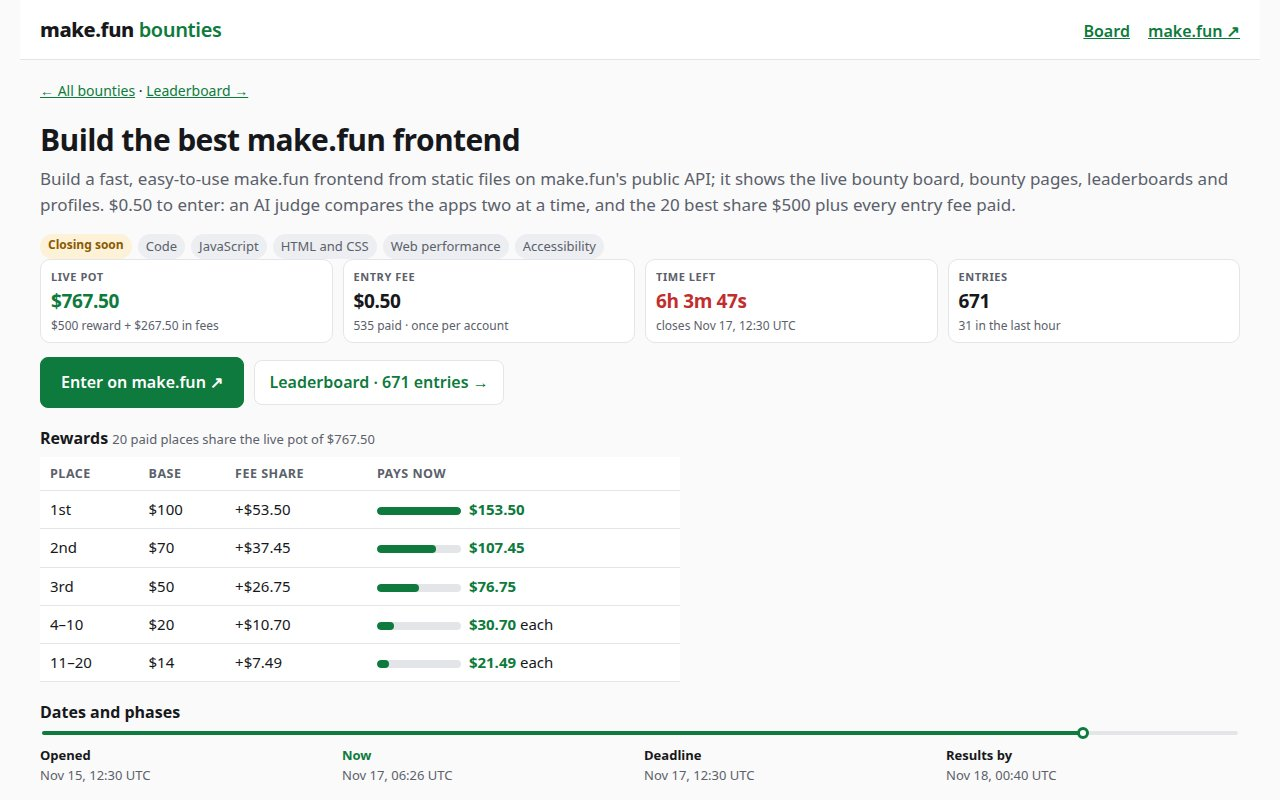
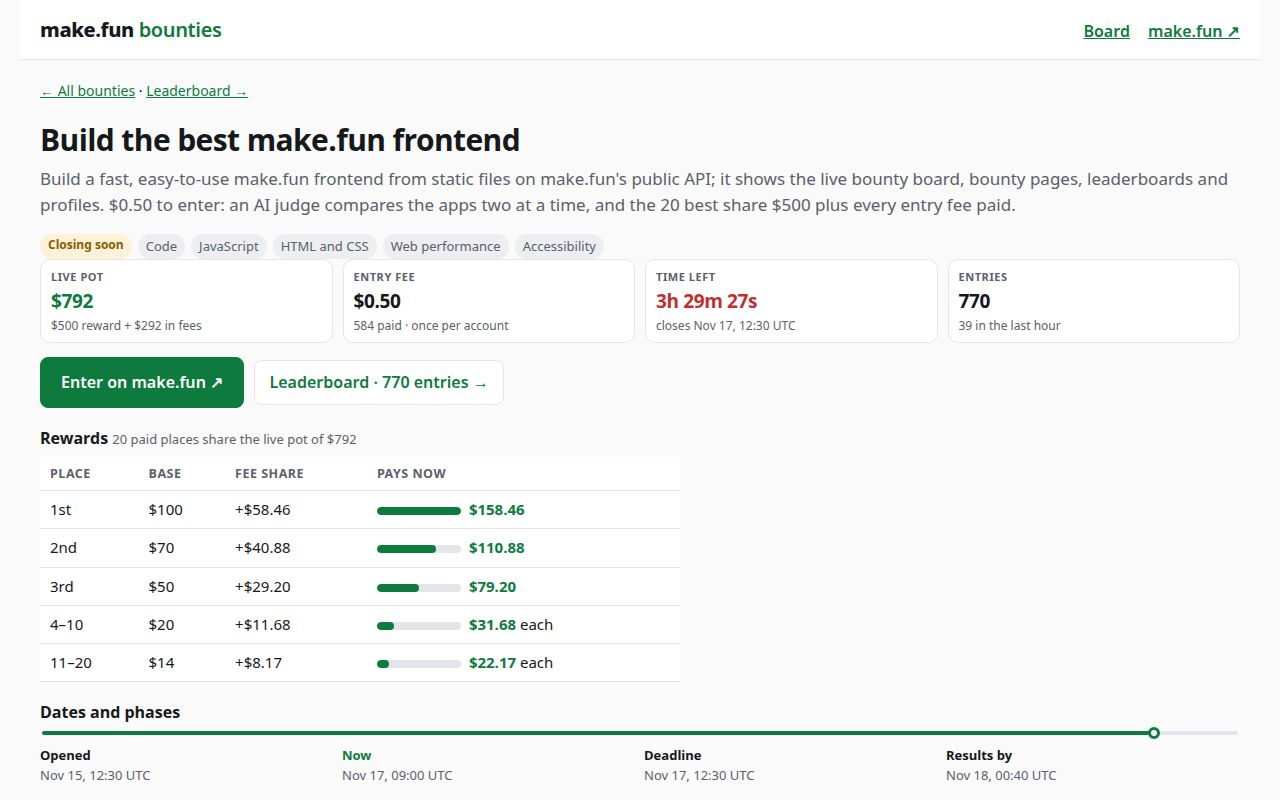
Featherlight rebuild 3: rewrite all surfaces in a recorded session
Full rewrite of the vanilla-JS make.fun frontend (board, bounty,
leaderboard, profile) from the live public API. Removes the
unreferenced favicon.ico; first load 6 files, 37874 bytes raw,
12153 bytes gzip-9; whole app 7 files, 38122 bytes. Screenshots
retaken from the running app on live data.

diff --git a/app/views.js b/app/views.js
@@ -1,1 +1,144 @@
-import{ago,bytes,date,dtime,esc,isTakingEntries,md,money,num,pct,placeLabel,shortDate,timeLeft,timeLeftPrecise}from"./format.js";const pot=e=>money(e.potUsd??e.rewardAmount),fee=e=>e.entryFeeUsd&&Number(e.entryFeeUsd)>0?`${money(e.entryFeeUsd)} fee`:"Free entry";function statusBadge(e){if(!isTakingEntries(e))return'<span class="badge ended">Ended</span>';return new Date(e.deadline).getTime()-Date.now()<864e5?'<span class="badge soon">Closing soon</span>':'<span class="badge open">Open</span>'}function elapsedFrac(e){const t=new Date(e.publishedAt).getTime(),n=new Date(e.deadline).getTime();return!Number.isFinite(t)||!Number.isFinite(n)||n<=t?0:Math.min(1,Math.max(0,(Date.now()-t)/(n-t)))}function prizeNow(e,t){const n=(e.rewardsNow??[]).find(e=>Number(e.place)===Number(t));return n?money(n.amountUsd):"—"}function boardRow(e,t){const n=isTakingEntries(e)&&new Date(e.deadline).getTime()-Date.now()<864e5;return`\n    <li class="row${t?" on":""}" data-action="select" data-slug="${esc(e.slug)}" tabindex="0">\n      <span class="r-pot">${pot(e)}<small>pot</small></span>\n      <span class="r-main">\n      <span class="r-title"><a href="#/bounty/${encodeURIComponent(e.slug)}">${esc(e.title)}</a></span>\n        <span class="r-sub">${n?'<span class="badge soon">Closing soon</span>':""}<span class="tag">${esc(e.category??"")}</span>${esc(e.summary??e.description??"")}</span>\n      </span>\n      <span class="r-fee">${e.entryFeeUsd&&Number(e.entryFeeUsd)>0?money(e.entryFeeUsd):"Free"}</span>\n      <span class="r-time"><span data-deadline="${esc(e.deadline)}">${timeLeft(e.deadline)}</span><i class="bar${n?" hot":""}"><b style="width:${Math.round(100*elapsedFrac(e))}%"></b></i></span>\n      <span class="r-entries"><strong>${num(e.submissionCount)}</strong><small>entries</small></span>\n    </li>`}function sortItems(e,t){const n=e.slice();return"pot"===t?n.sort((e,t)=>Number(t.potUsd??t.rewardAmount)-Number(e.potUsd??e.rewardAmount)):"entries"===t?n.sort((e,t)=>(t.submissionCount??0)-(e.submissionCount??0)):n.sort((e,t)=>new Date(e.deadline)-new Date(t.deadline))}function statsStrip(e){const t=e.reduce((e,t)=>e+Number(t.potUsd??t.rewardAmount??0),0),n=e.reduce((e,t)=>e+(t.submissionCount??0),0),s=e.slice().sort((e,t)=>new Date(e.deadline)-new Date(t.deadline))[0],a=s&&new Date(s.deadline).getTime()-Date.now()<36e5;return`\n    <div class="stats" role="status">\n      <div><span>Live bounties</span><strong>${num(e.length)}</strong></div>\n      <div><span>Live pots</span><strong class="green">${money(t)}</strong></div>\n      <div><span>Total entries</span><strong>${num(n)}</strong></div>\n      <div><span>Next deadline</span><strong class="${a?"red":""}" ${s?`data-countdown="${esc(s.deadline)}"`:""}>${s?timeLeftPrecise(s.deadline):"—"}</strong><small>${s?esc(s.title):""}</small></div>\n    </div>`}function ticker(e,t){const n=['<span class="live-dot">●</span> Live'],s=(t?.submissions??[]).slice().sort((e,t)=>new Date(t.createdAt)-new Date(e.createdAt)).slice(0,4);for(const e of s)n.push(`<a href="#/profile/${encodeURIComponent(e.hunter)}">@${esc(e.hunter)}</a> entered ${esc(t.title)} <span data-createdat="${esc(e.createdAt)}">${ago(e.createdAt)}</span>`);if(!s.length){let t=null;for(const n of e)for(const e of n.submissions??[]){const s=new Date(e.createdAt).getTime();(!t||s>t.t)&&(t={t:s,title:n.title})}t&&n.push(`newest entry ${ago(new Date(t.t).toISOString())} on ${esc(t.title)}`)}return`<p class="ticker">${n.join(" · ")}</p>`}function rewardsTable(e){const t=(e.rewardsNow??[]).slice().sort((e,t)=>Number(e.place)-Number(t.place));if(!t.length){const t=Object.entries(e.rewards??{}).sort((e,t)=>Number(e[0])-Number(t[0]));return t.length?`<table class="rewards"><thead><tr><th>Place</th><th>Reward</th></tr></thead><tbody>${t.map(([e,t])=>`<tr><td>${esc(e)}</td><td>${money(t)}</td></tr>`).join("")}</tbody></table>`:`<p>Reward: <strong>${pot(e)}</strong></p>`}const n=[];for(const e of t){const t=n[n.length-1];t&&t.baseUsd===e.baseUsd&&t.feeShareUsd===e.feeShareUsd&&Number(e.place)===t.end+1?(t.end=Number(e.place),t.amountUsd=e.amountUsd):n.push({start:Number(e.place),end:Number(e.place),baseUsd:e.baseUsd,feeShareUsd:e.feeShareUsd,amountUsd:e.amountUsd})}const s=Math.max(...t.map(e=>Number(e.amountUsd)||0),1);return`\n    <table class="rewards">\n      <thead><tr><th>Place</th><th>Base</th><th>Fee share</th><th>Pays now</th></tr></thead>\n      <tbody>${n.map(e=>`<tr><td>${e.start===e.end?placeLabel(e.start):`${e.start}–${e.end}`}</td><td>${money(e.baseUsd)}</td><td>+${money(e.feeShareUsd)}</td><td><span class="pays"><i style="width:${Math.max(4,Math.round(Number(e.amountUsd)/s*100))}%"></i></span><strong class="green">${money(e.amountUsd)}</strong>${e.start!==e.end?" each":""}</td></tr>`).join("")}</tbody>\n    </table>`}function phasesTimeline(e){const t=e.phases??[],n=t.find(e=>"dev"===e.key),s=t.find(e=>"final"===e.key),a=n?.endsAt??e.deadline,o=s?.endsAt??null,d=Math.round(100*elapsedFrac({...e,deadline:a})),r=new Date;return`\n    <div class="phases">\n      <div class="track"><i style="width:${d}%"></i><b style="left:${d}%"></b></div>\n      <div class="stops">\n        <div><b>Opened</b><span>${dtime(e.publishedAt)}</span></div>\n        <div class="cur"><b>Now</b><span>${dtime(r.toISOString())}</span></div>\n        <div><b>Deadline</b><span>${dtime(a)}</span></div>\n        <div><b>Results by</b><span>${o?dtime(o):"—"}</span></div>\n      </div>\n    </div>`}function top5Preview(e,t){return t?t.length?`\n    <table class="top5">\n      <thead><tr><th>#</th><th>Entrant</th><th>Win rate</th><th>Prize now</th></tr></thead>\n      <tbody>${t.map(t=>{const n=t.image?t.image.startsWith("/")?`https://make.fun${t.image}`:t.image:"";return`<tr><td>${num(t.rank??t.performance)}</td><td class="entrant">${n?`<img crossorigin="anonymous" src="${esc(n)}" alt="" width="20" height="20" loading="lazy">`:""}<a href="#/profile/${encodeURIComponent(t.handle)}">${esc(t.handle)}</a></td><td><strong>${pct(t.value??t.values?.judge)}</strong></td><td><strong class="green">${prizeNow(e,t.prize_rank??t.rank)}</strong></td></tr>`}).join("")}</tbody>\n    </table>\n    <p class="note"><a href="#/bounty/${encodeURIComponent(e.slug)}/leaderboard">Full leaderboard · ${num(e.submissionCount)} entries →</a></p>`:'<p class="note">No entries ranked yet.</p>':'<p class="note">Top 5 loading…</p>'}export function bountyDetail(e,t,n){const s=isTakingEntries(e)&&new Date(e.deadline).getTime()-Date.now()<864e5,a=e.entryFeeUsd&&Number(e.entryFeeUsd)>0;return`\n    <div class="cards">\n      <div><span>Live pot</span><strong class="green">${pot(e)}</strong><small>${money(e.rewardAmount)} reward + ${money(e.entryFeesUsd??0)} in fees</small></div>\n      <div><span>Entry fee</span><strong>${a?money(e.entryFeeUsd):"Free"}</strong><small>${a?`${num(e.entryFeePayers)} paid · once per account`:"no fee to enter"}</small></div>\n      <div><span>Time left</span><strong class="${s?"red":""}" data-countdown="${esc(e.deadline)}">${timeLeftPrecise(e.deadline)}</strong><small>closes ${dtime(e.deadline)}</small></div>\n      <div><span>Entries</span><strong>${num(e.submissionCount)}</strong><small>${null!=n?`${num(n)} in the last hour`:"judge win rate decides"}</small></div>\n    </div>\n    <p class="cta"><a class="btn go" href="https://make.fun/bounty/${encodeURIComponent(e.slug)}">Enter on make.fun ↗</a>\n    <a class="btn ghost" href="#/bounty/${encodeURIComponent(e.slug)}/leaderboard">Leaderboard · ${num(e.submissionCount)} entries →</a></p>\n    <h3>Rewards <span class="h-sub">${num((e.rewardsNow??[]).length)} paid places share the live pot of ${pot(e)}</span></h3>\n    ${rewardsTable(e)}\n    <h3>Dates and phases</h3>\n    ${phasesTimeline(e)}\n    <h3>Top 5 now <span class="h-sub">judge win rate</span></h3>\n    ${top5Preview(e,t)}`}export function board(e,t){const n=e.items??[],s=n.filter(isTakingEntries),a=n.filter(e=>!isTakingEntries(e)),o=t.ended?[...a,...t.ended]:a,d="ended"===t.tab?o:s,r=sortItems(d,t.sort),i=(t.q??"").trim().toLowerCase(),l=t.cat&&"All"!==t.cat?r.filter(e=>(e.category??"")===t.cat):r,c=i?l.filter(e=>`${e.title} ${e.category??""} ${(e.skills??[]).join(" ")}`.toLowerCase().includes(i)):l,p=["All",...new Set(d.map(e=>e.category??"").filter(Boolean))].sort(),u=c.find(e=>e.slug===t.selected)??r.find(e=>e.slug===t.selected)??r[0]??null;u&&(t.selected=u.slug);const m=u?t.top5[u.slug]??null:null,h=u?t.full[u.slug]??null:null,$=Date.now()-36e5,b=h??u,g=b?(b.submissions??[]).filter(e=>new Date(e.createdAt).getTime()>$).length:null;return`\n    ${ticker(s,h)}\n    ${statsStrip(s)}\n    <div class="controls">\n      <div class="tabs" role="tablist">\n        <button type="button" role="tab" data-action="tab" data-tab="live" ${"live"===t.tab?'class="on" aria-selected="true"':""}>Live ${num(s.length)}</button>\n        <button type="button" role="tab" data-action="tab" data-tab="ended" ${"ended"===t.tab?'class="on" aria-selected="true"':""}>Ended ${num(o.length)}</button>\n      </div>\n      <label class="search">Search <input id="q" type="search" placeholder="title, category or skill…" value="${esc(t.q??"")}" autocomplete="off"></label>\n      <button type="button" data-action="refresh">Refresh</button>\n    </div>\n    <div class="chiprows">\n    <div class="chips"><span>Sort</span>\n      <button type="button" data-action="sort" data-sort="closing" ${"closing"===t.sort?'class="on"':""}>Closing soon</button>\n      <button type="button" data-action="sort" data-sort="pot" ${"pot"===t.sort?'class="on"':""}>Biggest pot</button>\n      <button type="button" data-action="sort" data-sort="entries" ${"entries"===t.sort?'class="on"':""}>Most entries</button>\n    </div>\n    <div class="chips"><span>Category</span>\n      ${p.map(e=>`<button type="button" data-action="cat" data-cat="${esc(e)}" ${t.cat===e?'class="on"':""}>${esc(e)}</button>`).join("")}\n    </div>\n    </div>\n    <div class="split">\n      <div class="list-col">\n        ${0===c.length?'<p class="empty">No bounties match that search.</p>':`<ul class="rows">${c.map(e=>boardRow(e,e.slug===t.selected)).join("")}</ul>`}\n      </div>\n      <aside class="detail" aria-label="Selected bounty">\n        ${u?`\n        <p class="d-crumbs">Board / ${esc(u.category??"")} · ${statusBadge(u)}</p>\n        <h2 class="d-title">${esc(u.title)}</h2>\n        <p class="d-sum">${esc(u.summary??"")}</p>\n        ${bountyDetail(u,m,g)}\n        <div class="prose clamp">${md(u.description??"")}</div>\n        <p><a href="#/bounty/${encodeURIComponent(u.slug)}">Full bounty page →</a></p>`:'<p class="empty">No bounty selected.</p>'}\n      </aside>\n    </div>\n    <p class="note">Pots grow as entry fees are paid in. A bounty past its deadline is ended even while its status still reads open, until its results are published.</p>`}export function bounty(e,t){const n=Date.now()-36e5,s=(e.submissions??[]).filter(e=>new Date(e.createdAt).getTime()>n).length,a=(e.submissions??[]).slice().sort((e,t)=>new Date(t.createdAt)-new Date(e.createdAt)).slice(0,8);return`\n    <p class="crumbs"><a href="#/">← All bounties</a> · <a href="#/bounty/${encodeURIComponent(e.slug)}/leaderboard">Leaderboard →</a></p>\n    <h1>${esc(e.title)}</h1>\n    <p class="lede">${esc(e.summary??"")}</p>\n    <p class="tags">${statusBadge(e)}<span class="tag">${esc(e.category??"")}</span>${(e.skills??[]).map(e=>`<span class="tag">${esc(e)}</span>`).join("")}</p>\n    ${bountyDetail(e,t,s)}\n    <h2>Description</h2>\n    <div class="prose">${md(e.description??"")}</div>\n    ${e.rules?`<details class="rules"><summary>Full rules</summary><div class="prose">${md(e.rules)}</div></details>`:""}\n    ${a.length?`<h2>Recent entries</h2><ul class="recent">${a.map(e=>`<li><a href="#/profile/${encodeURIComponent(e.hunter)}">@${esc(e.hunter)}</a> — ${esc(e.title??"")} · <span data-createdat="${esc(e.createdAt)}">${ago(e.createdAt)}</span>${e.status?` · ${esc(e.status)}`:""}</li>`).join("")}</ul>`:""}`}function lbRow(e,t){const n=e.values??e,s=null!=e.value?pct(e.value):pct(n.judge),a=null!=e.interval?.low?pct(e.interval.low):pct(n.judge_low),o=null!=e.interval?.high?pct(e.interval.high):pct(n.judge_high),d=e.values?.bytes??n.bytes,r=e.image?e.image.startsWith("/")?`https://make.fun${e.image}`:e.image:"";return`\n    <tr>\n      <td>${num(e.rank??e.performance)}</td>\n      <td class="entrant">${r?`<img crossorigin="anonymous" src="${esc(r)}" alt="" width="28" height="28" loading="lazy">`:""}<a href="#/profile/${encodeURIComponent(e.handle)}">${esc(e.handle)}</a><span class="entry-title">${esc(e.title??"")}</span></td>\n      <td><strong>${s}</strong></td>\n      <td>${a} – ${o}</td>\n      <td><strong class="green">${prizeNow(t,e.prize_rank??e.rank)}</strong></td>\n      <td>${bytes(d)}</td>\n      <td>${esc(e.status??(!1===e.judged?"not judged":"judged"))}</td>\n    </tr>`}export function leaderboard(e,t,n){const s=t.entries??[],a=t.rest??[],o=s.concat(a),d=o.slice(0,n);return`\n    <p class="crumbs"><a href="#/">← All bounties</a> · <a href="#/bounty/${encodeURIComponent(e.slug)}">${esc(e.title)}</a></p>\n    <h1>Leaderboard — ${esc(e.title)}</h1>\n    <p class="lede">${num(o.length)} entries ranked · phase: ${esc(t.phase?.title??t.phase?.key??"")} · judge win rate, 90% interval · prize now is what each rank pays from the live pot</p>\n    ${0===o.length?'<p class="empty">No entries on the leaderboard yet.</p>':`<table class="lb">\n      <thead><tr><th>#</th><th>Entrant</th><th>Win rate</th><th>90% interval</th><th>Prize now</th><th>Size</th><th>Status</th></tr></thead>\n      <tbody>${d.map(t=>lbRow(t,e)).join("")}</tbody>\n    </table>\n    ${n<o.length?`<p><button type="button" data-action="more-lb">Show more (${num(Math.min(25,o.length-n))} of ${num(o.length-n)} remaining)</button></p>`:`<p class="note">Showing all ${num(o.length)} entries.</p>`}`}\n    <p class="note">Win rate is the judge's share of wins against the field. Click a handle to open that entrant's public profile.</p>`}export function profile(e){const t=e.record??{},n=e.solutions??[];return`\n    <p class="crumbs"><a href="#/">← All bounties</a></p>\n    <div class="who">\n      ${e.image?`<img class="avatar" crossorigin="anonymous" src="${esc(e.image)}" alt="" width="96" height="96">`:""}\n      <div>\n        <h1>${esc(e.display_name??e.handle)}</h1>\n        <p class="handle">@${esc(e.handle)}</p>\n        ${e.bio?`<p>${esc(e.bio)}</p>`:""}\n        <p class="links">\n          ${e.github_login?`<a href="https://github.com/${encodeURIComponent(e.github_login)}">GitHub ↗</a>`:""}\n          ${e.x?`<a href="https://x.com/${encodeURIComponent(e.x)}">X ↗</a>`:""}\n          ${e.discord?`<span>Discord: ${esc(e.discord)}</span>`:""}\n          <span>Joined ${shortDate(e.joined_at)}</span>\n        </p>\n      </div>\n    </div>\n    <dl class="facts">\n      <dt>Competitions entered</dt><dd>${num(t.competitions_entered)}</dd>\n      <dt>Placed</dt><dd>${num(t.competitions_placed)}</dd>\n      <dt>Won</dt><dd>${num(t.competitions_won)}</dd>\n      <dt>Podium finishes</dt><dd>${num(t.podium_finishes)}</dd>\n      <dt>Best placement</dt><dd>${null!=t.best_placement?`#${num(t.best_placement)}`:"—"}</dd>\n      <dt>Prize money</dt><dd>${money(t.prize_usd??0)}</dd>\n    </dl>\n    <h2>Entries (${num(n.length)})</h2>\n    ${0===n.length?'<p class="empty">No entries yet.</p>':`<table class="lb"><thead><tr><th>Competition</th><th>Entry</th><th>Place</th><th>Score</th><th>Prize</th><th>Entered</th></tr></thead>\n      <tbody>${n.map(e=>`<tr>\n        <td><a href="#/bounty/${encodeURIComponent(e.competition?.slug??"")}">${esc(e.competition?.title??e.competition?.slug??"")}</a></td>\n        <td>${esc(e.title)}</td>\n        <td>${null!=e.placement?`#${num(e.placement)}`:"—"}</td>\n        <td>${null!=e.score?.value?pct(e.score.value):"—"}</td>\n        <td>${null!=e.prize_usd?money(e.prize_usd):"—"}</td>\n        <td>${shortDate(e.entered_at)}</td>\n      </tr>`).join("")}</tbody></table>`}`}
+import{ago,bytes,date,dtime,esc,isTakingEntries,md,money,num,pct,placeLabel,shortDate,timeLeft,timeLeftPrecise}from"./format.js";const pot=e=>money(e.potUsd??e.rewardAmount),fee=e=>e.entryFeeUsd&&Number(e.entryFeeUsd)>0?`${money(e.entryFeeUsd)} fee`:"Free entry";function statusBadge(e){if(!isTakingEntries(e))return'<span class="badge ended">Ended</span>';return new Date(e.deadline).getTime()-Date.now()<864e5?'<span class="badge soon">Closing soon</span>':'<span class="badge open">Open</span>'}function elapsedFrac(e){const t=new Date(e.publishedAt).getTime(),n=new Date(e.deadline).getTime();return!Number.isFinite(t)||!Number.isFinite(n)||n<=t?0:Math.min(1,Math.max(0,(Date.now()-t)/(n-t)))}function prizeNow(e,t){const n=(e.rewardsNow??[]).find(e=>Number(e.place)===Number(t));return n?money(n.amountUsd):"—"}function boardRow(e,t){const n=isTakingEntries(e)&&new Date(e.deadline).getTime()-Date.now()<864e5;return`
+    <li class="row${t?" on":""}" data-action="select" data-slug="${esc(e.slug)}" tabindex="0">
+      <span class="r-pot">${pot(e)}<small>pot</small></span>
+      <span class="r-main">
+      <span class="r-title"><a href="#/bounty/${encodeURIComponent(e.slug)}">${esc(e.title)}</a></span>
+        <span class="r-sub">${n?'<span class="badge soon">Closing soon</span>':""}<span class="tag">${esc(e.category??"")}</span>${esc(e.summary??e.description??"")}</span>
+      </span>
+      <span class="r-fee">${e.entryFeeUsd&&Number(e.entryFeeUsd)>0?money(e.entryFeeUsd):"Free"}</span>
+      <span class="r-time"><span data-deadline="${esc(e.deadline)}">${timeLeft(e.deadline)}</span><i class="bar${n?" hot":""}"><b style="width:${Math.round(100*elapsedFrac(e))}%"></b></i></span>
+      <span class="r-entries"><strong>${num(e.submissionCount)}</strong><small>entries</small></span>
+    </li>`}function sortItems(e,t){const n=e.slice();return"pot"===t?n.sort((e,t)=>Number(t.potUsd??t.rewardAmount)-Number(e.potUsd??e.rewardAmount)):"entries"===t?n.sort((e,t)=>(t.submissionCount??0)-(e.submissionCount??0)):n.sort((e,t)=>new Date(e.deadline)-new Date(t.deadline))}function statsStrip(e){const t=e.reduce((e,t)=>e+Number(t.potUsd??t.rewardAmount??0),0),n=e.reduce((e,t)=>e+(t.submissionCount??0),0),s=e.slice().sort((e,t)=>new Date(e.deadline)-new Date(t.deadline))[0],a=s&&new Date(s.deadline).getTime()-Date.now()<36e5;return`
+    <div class="stats" role="status">
+      <div><span>Live bounties</span><strong>${num(e.length)}</strong></div>
+      <div><span>Live pots</span><strong class="green">${money(t)}</strong></div>
+      <div><span>Total entries</span><strong>${num(n)}</strong></div>
+      <div><span>Next deadline</span><strong class="${a?"red":""}" ${s?`data-countdown="${esc(s.deadline)}"`:""}>${s?timeLeftPrecise(s.deadline):"—"}</strong><small>${s?esc(s.title):""}</small></div>
+    </div>`}function ticker(e,t){const n=['<span class="live-dot">●</span> Live'],s=(t?.submissions??[]).slice().sort((e,t)=>new Date(t.createdAt)-new Date(e.createdAt)).slice(0,4);for(const e of s)n.push(`<a href="#/profile/${encodeURIComponent(e.hunter)}">@${esc(e.hunter)}</a> entered ${esc(t.title)} <span data-createdat="${esc(e.createdAt)}">${ago(e.createdAt)}</span>`);if(!s.length){let t=null;for(const n of e)for(const e of n.submissions??[]){const s=new Date(e.createdAt).getTime();(!t||s>t.t)&&(t={t:s,title:n.title})}t&&n.push(`newest entry ${ago(new Date(t.t).toISOString())} on ${esc(t.title)}`)}return`<p class="ticker">${n.join(" · ")}</p>`}function rewardsTable(e){const t=(e.rewardsNow??[]).slice().sort((e,t)=>Number(e.place)-Number(t.place));if(!t.length){const t=Object.entries(e.rewards??{}).sort((e,t)=>Number(e[0])-Number(t[0]));return t.length?`<table class="rewards"><thead><tr><th>Place</th><th>Reward</th></tr></thead><tbody>${t.map(([e,t])=>`<tr><td>${esc(e)}</td><td>${money(t)}</td></tr>`).join("")}</tbody></table>`:`<p>Reward: <strong>${pot(e)}</strong></p>`}const n=[];for(const e of t){const t=n[n.length-1];t&&t.baseUsd===e.baseUsd&&t.feeShareUsd===e.feeShareUsd&&Number(e.place)===t.end+1?(t.end=Number(e.place),t.amountUsd=e.amountUsd):n.push({start:Number(e.place),end:Number(e.place),baseUsd:e.baseUsd,feeShareUsd:e.feeShareUsd,amountUsd:e.amountUsd})}const s=Math.max(...t.map(e=>Number(e.amountUsd)||0),1);return`
+    <table class="rewards">
+      <thead><tr><th>Place</th><th>Base</th><th>Fee share</th><th>Pays now</th></tr></thead>
+      <tbody>${n.map(e=>`<tr><td>${e.start===e.end?placeLabel(e.start):`${e.start}–${e.end}`}</td><td>${money(e.baseUsd)}</td><td>+${money(e.feeShareUsd)}</td><td><span class="pays"><i style="width:${Math.max(4,Math.round(Number(e.amountUsd)/s*100))}%"></i></span><strong class="green">${money(e.amountUsd)}</strong>${e.start!==e.end?" each":""}</td></tr>`).join("")}</tbody>
+    </table>`}function phasesTimeline(e){const t=e.phases??[],n=t.find(e=>"dev"===e.key),s=t.find(e=>"final"===e.key),a=n?.endsAt??e.deadline,o=s?.endsAt??null,d=Math.round(100*elapsedFrac({...e,deadline:a})),r=new Date;return`
+    <div class="phases">
+      <div class="track"><i style="width:${d}%"></i><b style="left:${d}%"></b></div>
+      <div class="stops">
+        <div><b>Opened</b><span>${dtime(e.publishedAt)}</span></div>
+        <div class="cur"><b>Now</b><span>${dtime(r.toISOString())}</span></div>
+        <div><b>Deadline</b><span>${dtime(a)}</span></div>
+        <div><b>Results by</b><span>${o?dtime(o):"—"}</span></div>
+      </div>
+    </div>`}function top5Preview(e,t){return t?t.length?`
+    <table class="top5">
+      <thead><tr><th>#</th><th>Entrant</th><th>Win rate</th><th>Prize now</th></tr></thead>
+      <tbody>${t.map(t=>{const n=t.image?t.image.startsWith("/")?`https://make.fun${t.image}`:t.image:"";return`<tr><td>${num(t.rank??t.performance)}</td><td class="entrant">${n?`<img crossorigin="anonymous" src="${esc(n)}" alt="" width="20" height="20" loading="lazy">`:""}<a href="#/profile/${encodeURIComponent(t.handle)}">${esc(t.handle)}</a></td><td><strong>${pct(t.value??t.values?.judge)}</strong></td><td><strong class="green">${prizeNow(e,t.prize_rank??t.rank)}</strong></td></tr>`}).join("")}</tbody>
+    </table>
+    <p class="note"><a href="#/bounty/${encodeURIComponent(e.slug)}/leaderboard">Full leaderboard · ${num(e.submissionCount)} entries →</a></p>`:'<p class="note">No entries ranked yet.</p>':'<p class="note">Top 5 loading…</p>'}export function bountyDetail(e,t,n){const s=isTakingEntries(e)&&new Date(e.deadline).getTime()-Date.now()<864e5,a=e.entryFeeUsd&&Number(e.entryFeeUsd)>0;return`
+    <div class="cards">
+      <div><span>Live pot</span><strong class="green">${pot(e)}</strong><small>${money(e.rewardAmount)} reward + ${money(e.entryFeesUsd??0)} in fees</small></div>
+      <div><span>Entry fee</span><strong>${a?money(e.entryFeeUsd):"Free"}</strong><small>${a?`${num(e.entryFeePayers)} paid · once per account`:"no fee to enter"}</small></div>
+      <div><span>Time left</span><strong class="${s?"red":""}" data-countdown="${esc(e.deadline)}">${timeLeftPrecise(e.deadline)}</strong><small>closes ${dtime(e.deadline)}</small></div>
+      <div><span>Entries</span><strong>${num(e.submissionCount)}</strong><small>${null!=n?`${num(n)} in the last hour`:"judge win rate decides"}</small></div>
+    </div>
+    <p class="cta"><a class="btn go" href="https://make.fun/bounty/${encodeURIComponent(e.slug)}">Enter on make.fun ↗</a>
+    <a class="btn ghost" href="#/bounty/${encodeURIComponent(e.slug)}/leaderboard">Leaderboard · ${num(e.submissionCount)} entries →</a></p>
+    <h3>Rewards <span class="h-sub">${num((e.rewardsNow??[]).length)} paid places share the live pot of ${pot(e)}</span></h3>
+    ${rewardsTable(e)}
+    <h3>Dates and phases</h3>
+    ${phasesTimeline(e)}
+    <h3>Top 5 now <span class="h-sub">judge win rate</span></h3>
+    ${top5Preview(e,t)}`}export function board(e,t){const n=e.items??[],s=n.filter(isTakingEntries),a=n.filter(e=>!isTakingEntries(e)),o=t.ended?[...a,...t.ended]:a,d="ended"===t.tab?o:s,r=sortItems(d,t.sort),i=(t.q??"").trim().toLowerCase(),l=t.cat&&"All"!==t.cat?r.filter(e=>(e.category??"")===t.cat):r,c=i?l.filter(e=>`${e.title} ${e.category??""} ${(e.skills??[]).join(" ")}`.toLowerCase().includes(i)):l,p=["All",...new Set(d.map(e=>e.category??"").filter(Boolean))].sort(),u=c.find(e=>e.slug===t.selected)??r.find(e=>e.slug===t.selected)??r[0]??null;u&&(t.selected=u.slug);const m=u?t.top5[u.slug]??null:null,h=u?t.full[u.slug]??null:null,$=Date.now()-36e5,b=h??u,g=b?(b.submissions??[]).filter(e=>new Date(e.createdAt).getTime()>$).length:null;return`
+    ${ticker(s,h)}
+    ${statsStrip(s)}
+    <div class="controls">
+      <div class="tabs" role="tablist">
+        <button type="button" role="tab" data-action="tab" data-tab="live" ${"live"===t.tab?'class="on" aria-selected="true"':""}>Live ${num(s.length)}</button>
+        <button type="button" role="tab" data-action="tab" data-tab="ended" ${"ended"===t.tab?'class="on" aria-selected="true"':""}>Ended ${num(o.length)}</button>
+      </div>
+      <label class="search">Search <input id="q" type="search" placeholder="title, category or skill…" value="${esc(t.q??"")}" autocomplete="off"></label>
+      <button type="button" data-action="refresh">Refresh</button>
+    </div>
+    <div class="chiprows">
+    <div class="chips"><span>Sort</span>
+      <button type="button" data-action="sort" data-sort="closing" ${"closing"===t.sort?'class="on"':""}>Closing soon</button>
+      <button type="button" data-action="sort" data-sort="pot" ${"pot"===t.sort?'class="on"':""}>Biggest pot</button>
+      <button type="button" data-action="sort" data-sort="entries" ${"entries"===t.sort?'class="on"':""}>Most entries</button>
+    </div>
+    <div class="chips"><span>Category</span>
+      ${p.map(e=>`<button type="button" data-action="cat" data-cat="${esc(e)}" ${t.cat===e?'class="on"':""}>${esc(e)}</button>`).join("")}
+    </div>
+    </div>
+    <div class="split">
+      <div class="list-col">
+        ${0===c.length?'<p class="empty">No bounties match that search.</p>':`<ul class="rows">${c.map(e=>boardRow(e,e.slug===t.selected)).join("")}</ul>`}
+      </div>
+      <aside class="detail" aria-label="Selected bounty">
+        ${u?`
+        <p class="d-crumbs">Board / ${esc(u.category??"")} · ${statusBadge(u)}</p>
+        <h2 class="d-title">${esc(u.title)}</h2>
+        <p class="d-sum">${esc(u.summary??"")}</p>
+        ${bountyDetail(u,m,g)}
+        <div class="prose clamp">${md(u.description??"")}</div>
+        <p><a href="#/bounty/${encodeURIComponent(u.slug)}">Full bounty page →</a></p>`:'<p class="empty">No bounty selected.</p>'}
+      </aside>
+    </div>
+    <p class="note">Pots grow as entry fees are paid in. A bounty past its deadline is ended even while its status still reads open, until its results are published.</p>`}export function bounty(e,t){const n=Date.now()-36e5,s=(e.submissions??[]).filter(e=>new Date(e.createdAt).getTime()>n).length,a=(e.submissions??[]).slice().sort((e,t)=>new Date(t.createdAt)-new Date(e.createdAt)).slice(0,8);return`
+    <p class="crumbs"><a href="#/">← All bounties</a> · <a href="#/bounty/${encodeURIComponent(e.slug)}/leaderboard">Leaderboard →</a></p>
+    <h1>${esc(e.title)}</h1>
+    <p class="lede">${esc(e.summary??"")}</p>
+    <p class="tags">${statusBadge(e)}<span class="tag">${esc(e.category??"")}</span>${(e.skills??[]).map(e=>`<span class="tag">${esc(e)}</span>`).join("")}</p>
+    ${bountyDetail(e,t,s)}
+    <h2>Description</h2>
+    <div class="prose">${md(e.description??"")}</div>
+    ${e.rules?`<details class="rules"><summary>Full rules</summary><div class="prose">${md(e.rules)}</div></details>`:""}
+    ${a.length?`<h2>Recent entries</h2><ul class="recent">${a.map(e=>`<li><a href="#/profile/${encodeURIComponent(e.hunter)}">@${esc(e.hunter)}</a> — ${esc(e.title??"")} · <span data-createdat="${esc(e.createdAt)}">${ago(e.createdAt)}</span>${e.status?` · ${esc(e.status)}`:""}</li>`).join("")}</ul>`:""}`}function lbRow(e,t){const n=e.values??e,s=null!=e.value?pct(e.value):pct(n.judge),a=null!=e.interval?.low?pct(e.interval.low):pct(n.judge_low),o=null!=e.interval?.high?pct(e.interval.high):pct(n.judge_high),d=e.values?.bytes??n.bytes,r=e.image?e.image.startsWith("/")?`https://make.fun${e.image}`:e.image:"";return`
+    <tr>
+      <td>${num(e.rank??e.performance)}</td>
+      <td class="entrant">${r?`<img crossorigin="anonymous" src="${esc(r)}" alt="" width="28" height="28" loading="lazy">`:""}<a href="#/profile/${encodeURIComponent(e.handle)}">${esc(e.handle)}</a><span class="entry-title">${esc(e.title??"")}</span></td>
+      <td><strong>${s}</strong></td>
+      <td>${a} – ${o}</td>
+      <td><strong class="green">${prizeNow(t,e.prize_rank??e.rank)}</strong></td>
+      <td>${bytes(d)}</td>
+      <td>${esc(e.status??(!1===e.judged?"not judged":"judged"))}</td>
+    </tr>`}export function leaderboard(e,t,n){const s=t.entries??[],a=t.rest??[],o=s.concat(a),d=o.slice(0,n);return`
+    <p class="crumbs"><a href="#/">← All bounties</a> · <a href="#/bounty/${encodeURIComponent(e.slug)}">${esc(e.title)}</a></p>
+    <h1>Leaderboard — ${esc(e.title)}</h1>
+    <p class="lede">${num(o.length)} entries ranked · phase: ${esc(t.phase?.title??t.phase?.key??"")} · judge win rate, 90% interval · prize now is what each rank pays from the live pot</p>
+    ${0===o.length?'<p class="empty">No entries on the leaderboard yet.</p>':`<table class="lb">
+      <thead><tr><th>#</th><th>Entrant</th><th>Win rate</th><th>90% interval</th><th>Prize now</th><th>Size</th><th>Status</th></tr></thead>
+      <tbody>${d.map(t=>lbRow(t,e)).join("")}</tbody>
+    </table>
+    ${n<o.length?`<p><button type="button" data-action="more-lb">Show more (${num(Math.min(25,o.length-n))} of ${num(o.length-n)} remaining)</button></p>`:`<p class="note">Showing all ${num(o.length)} entries.</p>`}`}
+    <p class="note">Win rate is the judge's share of wins against the field. Click a handle to open that entrant's public profile.</p>`}export function profile(e){const t=e.record??{},n=e.solutions??[];return`
+    <p class="crumbs"><a href="#/">← All bounties</a></p>
+    <div class="who">
+      ${e.image?`<img class="avatar" crossorigin="anonymous" src="${esc(e.image)}" alt="" width="96" height="96">`:""}
+      <div>
+        <h1>${esc(e.display_name??e.handle)}</h1>
+        <p class="handle">@${esc(e.handle)}</p>
+        ${e.bio?`<p>${esc(e.bio)}</p>`:""}
+        <p class="links">
+          ${e.github_login?`<a href="https://github.com/${encodeURIComponent(e.github_login)}">GitHub ↗</a>`:""}
+          ${e.x?`<a href="https://x.com/${encodeURIComponent(e.x)}">X ↗</a>`:""}
+          ${e.discord?`<span>Discord: ${esc(e.discord)}</span>`:""}
+          <span>Joined ${shortDate(e.joined_at)}</span>
+        </p>
+      </div>
+    </div>
+    <dl class="facts">
+      <dt>Competitions entered</dt><dd>${num(t.competitions_entered)}</dd>
+      <dt>Placed</dt><dd>${num(t.competitions_placed)}</dd>
+      <dt>Won</dt><dd>${num(t.competitions_won)}</dd>
+      <dt>Podium finishes</dt><dd>${num(t.podium_finishes)}</dd>
+      <dt>Best placement</dt><dd>${null!=t.best_placement?`#${num(t.best_placement)}`:"—"}</dd>
+      <dt>Prize money</dt><dd>${money(t.prize_usd??0)}</dd>
+    </dl>
+    <h2>Entries (${num(n.length)})</h2>
+    ${0===n.length?'<p class="empty">No entries yet.</p>':`<table class="lb"><thead><tr><th>Competition</th><th>Entry</th><th>Place</th><th>Score</th><th>Prize</th><th>Entered</th></tr></thead>
+      <tbody>${n.map(e=>`<tr>
+        <td><a href="#/bounty/${encodeURIComponent(e.competition?.slug??"")}">${esc(e.competition?.title??e.competition?.slug??"")}</a></td>
+        <td>${esc(e.title)}</td>
+        <td>${null!=e.placement?`#${num(e.placement)}`:"—"}</td>
+        <td>${null!=e.score?.value?pct(e.score.value):"—"}</td>
+        <td>${null!=e.prize_usd?money(e.prize_usd):"—"}</td>
+        <td>${shortDate(e.entered_at)}</td>
+      </tr>`).join("")}</tbody></table>`}`}

diff --git a/app/main.js b/app/main.js
@@ -1,1 +1,4 @@
-import{apiStats,clearCache,getBounties,getBountiesByStatus,getBounty,getLeaderboard,getProfile,resetApiStats}from"./api.js";import{board,bounty,leaderboard,profile}from"./views.js";import{ago,timeLeft,timeLeftPrecise}from"./format.js";const app=document.getElementById("app"),statusLine=document.getElementById("api-status"),boardState={q:"",tab:"live",sort:"closing",cat:"All",ended:null,endedLoading:!1,selected:null,top5:{},full:{}};let boardData=null,lbShown=25,ticker1s=null,ticker30s=null;function startTickers(){stopTickers(),ticker1s=setInterval(()=>{for(const e of document.querySelectorAll("[data-countdown]"))e.textContent=timeLeftPrecise(e.dataset.countdown);renderFooter()},1e3),ticker30s=setInterval(()=>{for(const e of app.querySelectorAll("[data-deadline]"))e.textContent=timeLeft(e.dataset.deadline);for(const e of document.querySelectorAll("[data-createdat]"))e.textContent=ago(e.dataset.createdat)},3e4)}function stopTickers(){ticker1s&&clearInterval(ticker1s),ticker30s&&clearInterval(ticker30s),ticker1s=ticker30s=null}function renderFooter(){if(!statusLine)return;const e=apiStats(),t=e.at?`${Math.max(0,Math.round((Date.now()-e.at)/1e3))}s ago`:"—";statusLine.textContent=`This view: ${e.req} API request${1===e.req?"":"s"} · ${e.notMod} unchanged (304) · ${e.mem} from memory · updated ${t}`}function loading(e){app.innerHTML=`<h1>${e}</h1><p class="loading">Loading live data from make.fun…</p>`}function failed(e,t){const a=404===e?.status;app.innerHTML=`\n    <h1>${a?"Not found":"Could not load this page"}</h1>\n    <p class="error">${a?"make.fun has no page with that address.":"The make.fun API did not answer. Your connection may be down, or the API may be busy — try again."}</p>\n    <p><button type="button" data-action="retry">Try again</button> <a href="#/">← Back to the board</a></p>`,app.dataset.retry=t,window.__shotReady=!0}async function enrichSelected(e){if(e){if(!boardState.full[e])try{boardState.full[e]=await getBounty(e)}catch{}if(!boardState.top5[e])try{const t=await getLeaderboard(e);boardState.top5[e]=(t.entries??[]).slice(0,5)}catch{boardState.top5[e]=[]}}}async function showBoard(){loading("Open bounties");try{if(resetApiStats(),boardData=await getBounties(),!boardState.selected){const e=boardData.items??[];boardState.selected=e.some(e=>"makefun-frontend-01"===e.slug)?"makefun-frontend-01":e[0]?.slug??null}document.title="Open bounties | make.fun",await enrichSelected(boardState.selected),await loadEnded(),app.innerHTML=board(boardData,boardState),attachSearch(),startTickers(),renderFooter()}catch(e){return void failed(e,"board")}window.__shotReady=!0}async function loadEnded(){if(!boardState.ended&&!boardState.endedLoading){boardState.endedLoading=!0;try{const e=async()=>{const e=await getBountiesByStatus("closed").catch(()=>({items:[]})),t=await getBountiesByStatus("resolved").catch(()=>({items:[]}));return[...e.items,...t.items].sort((e,t)=>new Date(t.deadline)-new Date(e.deadline))};let t=await e();0===t.length&&(await new Promise(e=>setTimeout(e,2e3)),t=await e()),boardState.ended=t}catch{}finally{boardState.endedLoading=!1}}}function renderBoardOnly(){const e=window.scrollY;app.innerHTML=board(boardData,boardState),attachSearch(),window.scrollTo(0,e),renderFooter()}function attachSearch(){const e=document.getElementById("q");e&&e.addEventListener("input",()=>{const t=e.selectionStart;boardState.q=e.value,renderBoardOnly();const a=document.getElementById("q");a.focus(),a.setSelectionRange(t,t)})}async function showBounty(e){loading("Bounty");try{resetApiStats();const[t,a]=await Promise.all([getBounty(e),getLeaderboard(e)]);document.title=`${t.title} | make.fun`,app.innerHTML=bounty(t,(a.entries??[]).slice(0,5)),startTickers(),renderFooter()}catch(t){return void failed(t,`bounty:${e}`)}window.__shotReady=!0}async function showLeaderboard(e){loading("Leaderboard");try{resetApiStats();const[t,a]=await Promise.all([getBounty(e),getLeaderboard(e)]);document.title=`Leaderboard — ${t.title} | make.fun`,lbShown=25,app.innerHTML=leaderboard(t,a,lbShown),app.dataset.lbSlug=e,renderFooter()}catch(t){return void failed(t,`leaderboard:${e}`)}window.__shotReady=!0}async function showProfile(e){loading("Profile");try{resetApiStats();const t=await getProfile(e);document.title=`@${t.handle} | make.fun`,app.innerHTML=profile(t),renderFooter()}catch(t){return void failed(t,`profile:${e}`)}window.__shotReady=!0}function pruneBrokenImages(){for(const e of app.querySelectorAll("img"))e.complete&&0===e.naturalWidth?e.remove():e.addEventListener("error",()=>e.remove(),{once:!0})}function parseRoute(){const e=(location.hash||"#/").replace(/^#\//,"").split("/").map(decodeURIComponent);return"bounty"===e[0]&&e[1]&&"leaderboard"===e[2]?{name:"leaderboard",slug:e[1]}:"bounty"===e[0]&&e[1]?{name:"bounty",slug:e[1]}:"profile"===e[0]&&e[1]?{name:"profile",handle:e[1]}:{name:"board"}}async function render(){window.__shotReady=!1,stopTickers();const e=parseRoute();"bounty"===e.name?await showBounty(e.slug):"leaderboard"===e.name?await showLeaderboard(e.slug):"profile"===e.name?await showProfile(e.handle):await showBoard(),pruneBrokenImages(),window.scrollTo(0,0)}app.addEventListener("click",async e=>{const t=e.target.closest("[data-action]");if(!t)return;const a=t.dataset.action;if("retry"===a)clearCache(),await render();else if("refresh"===a)clearCache(),boardState.ended=null,boardState.top5={},boardState.full={},await render();else if("tab"===a)boardState.tab=t.dataset.tab,"ended"!==boardState.tab||boardState.ended||loadEnded().then(()=>{"board"===parseRoute().name&&renderBoardOnly(),renderFooter()}),renderBoardOnly();else if("sort"===a)boardState.sort=t.dataset.sort,renderBoardOnly();else if("cat"===a)boardState.cat=t.dataset.cat,renderBoardOnly();else if("select"===a){if(e.target.closest("a[href]"))return;const a=t.dataset.slug;if(a===boardState.selected)return;boardState.selected=a,renderBoardOnly(),await enrichSelected(a),"board"===parseRoute().name&&boardState.selected===a&&renderBoardOnly()}else if("more-lb"===a){lbShown+=25;const e=app.dataset.lbSlug;try{const[t,a]=await Promise.all([getBounty(e),getLeaderboard(e)]);app.innerHTML=leaderboard(t,a,lbShown)}catch{await render()}}}),app.addEventListener("keydown",e=>{"Enter"!==e.key&&" "!==e.key||!e.target.matches?.('.row[data-action="select"]')||(e.preventDefault(),e.target.click())}),window.addEventListener("hashchange",render),render();
+import{apiStats,clearCache,getBounties,getBountiesByStatus,getBounty,getLeaderboard,getProfile,resetApiStats}from"./api.js";import{board,bounty,leaderboard,profile}from"./views.js";import{ago,timeLeft,timeLeftPrecise}from"./format.js";const app=document.getElementById("app"),statusLine=document.getElementById("api-status"),boardState={q:"",tab:"live",sort:"closing",cat:"All",ended:null,endedLoading:!1,selected:null,top5:{},full:{}};let boardData=null,lbShown=25,ticker1s=null,ticker30s=null;function startTickers(){stopTickers(),ticker1s=setInterval(()=>{for(const e of document.querySelectorAll("[data-countdown]"))e.textContent=timeLeftPrecise(e.dataset.countdown);renderFooter()},1e3),ticker30s=setInterval(()=>{for(const e of app.querySelectorAll("[data-deadline]"))e.textContent=timeLeft(e.dataset.deadline);for(const e of document.querySelectorAll("[data-createdat]"))e.textContent=ago(e.dataset.createdat)},3e4)}function stopTickers(){ticker1s&&clearInterval(ticker1s),ticker30s&&clearInterval(ticker30s),ticker1s=ticker30s=null}function renderFooter(){if(!statusLine)return;const e=apiStats(),t=e.at?`${Math.max(0,Math.round((Date.now()-e.at)/1e3))}s ago`:"—";statusLine.textContent=`This view: ${e.req} API request${1===e.req?"":"s"} · ${e.notMod} unchanged (304) · ${e.mem} from memory · updated ${t}`}function loading(e){app.innerHTML=`<h1>${e}</h1><p class="loading">Loading live data from make.fun…</p>`}function failed(e,t){const a=404===e?.status;app.innerHTML=`
+    <h1>${a?"Not found":"Could not load this page"}</h1>
+    <p class="error">${a?"make.fun has no page with that address.":"The make.fun API did not answer. Your connection may be down, or the API may be busy — try again."}</p>
+    <p><button type="button" data-action="retry">Try again</button> <a href="#/">← Back to the board</a></p>`,app.dataset.retry=t,window.__shotReady=!0}async function enrichSelected(e){if(e){if(!boardState.full[e])try{boardState.full[e]=await getBounty(e)}catch{}if(!boardState.top5[e])try{const t=await getLeaderboard(e);boardState.top5[e]=(t.entries??[]).slice(0,5)}catch{boardState.top5[e]=[]}}}async function showBoard(){loading("Open bounties");try{if(resetApiStats(),boardData=await getBounties(),!boardState.selected){const e=boardData.items??[];boardState.selected=e.some(e=>"makefun-frontend-01"===e.slug)?"makefun-frontend-01":e[0]?.slug??null}document.title="Open bounties | make.fun",await enrichSelected(boardState.selected),await loadEnded(),app.innerHTML=board(boardData,boardState),attachSearch(),startTickers(),renderFooter()}catch(e){return void failed(e,"board")}window.__shotReady=!0}async function loadEnded(){if(!boardState.ended&&!boardState.endedLoading){boardState.endedLoading=!0;try{const e=async()=>{const e=await getBountiesByStatus("closed").catch(()=>({items:[]})),t=await getBountiesByStatus("resolved").catch(()=>({items:[]}));return[...e.items,...t.items].sort((e,t)=>new Date(t.deadline)-new Date(e.deadline))};let t=await e();0===t.length&&(await new Promise(e=>setTimeout(e,2e3)),t=await e()),boardState.ended=t}catch{}finally{boardState.endedLoading=!1}}}function renderBoardOnly(){const e=window.scrollY;app.innerHTML=board(boardData,boardState),attachSearch(),window.scrollTo(0,e),renderFooter()}function attachSearch(){const e=document.getElementById("q");e&&e.addEventListener("input",()=>{const t=e.selectionStart;boardState.q=e.value,renderBoardOnly();const a=document.getElementById("q");a.focus(),a.setSelectionRange(t,t)})}async function showBounty(e){loading("Bounty");try{resetApiStats();const[t,a]=await Promise.all([getBounty(e),getLeaderboard(e)]);document.title=`${t.title} | make.fun`,app.innerHTML=bounty(t,(a.entries??[]).slice(0,5)),startTickers(),renderFooter()}catch(t){return void failed(t,`bounty:${e}`)}window.__shotReady=!0}async function showLeaderboard(e){loading("Leaderboard");try{resetApiStats();const[t,a]=await Promise.all([getBounty(e),getLeaderboard(e)]);document.title=`Leaderboard — ${t.title} | make.fun`,lbShown=25,app.innerHTML=leaderboard(t,a,lbShown),app.dataset.lbSlug=e,renderFooter()}catch(t){return void failed(t,`leaderboard:${e}`)}window.__shotReady=!0}async function showProfile(e){loading("Profile");try{resetApiStats();const t=await getProfile(e);document.title=`@${t.handle} | make.fun`,app.innerHTML=profile(t),renderFooter()}catch(t){return void failed(t,`profile:${e}`)}window.__shotReady=!0}function pruneBrokenImages(){for(const e of app.querySelectorAll("img"))e.complete&&0===e.naturalWidth?e.remove():e.addEventListener("error",()=>e.remove(),{once:!0})}function parseRoute(){const e=(location.hash||"#/").replace(/^#\//,"").split("/").map(decodeURIComponent);return"bounty"===e[0]&&e[1]&&"leaderboard"===e[2]?{name:"leaderboard",slug:e[1]}:"bounty"===e[0]&&e[1]?{name:"bounty",slug:e[1]}:"profile"===e[0]&&e[1]?{name:"profile",handle:e[1]}:{name:"board"}}async function render(){window.__shotReady=!1,stopTickers();const e=parseRoute();"bounty"===e.name?await showBounty(e.slug):"leaderboard"===e.name?await showLeaderboard(e.slug):"profile"===e.name?await showProfile(e.handle):await showBoard(),pruneBrokenImages(),window.scrollTo(0,0)}app.addEventListener("click",async e=>{const t=e.target.closest("[data-action]");if(!t)return;const a=t.dataset.action;if("retry"===a)clearCache(),await render();else if("refresh"===a)clearCache(),boardState.ended=null,boardState.top5={},boardState.full={},await render();else if("tab"===a)boardState.tab=t.dataset.tab,"ended"!==boardState.tab||boardState.ended||loadEnded().then(()=>{"board"===parseRoute().name&&renderBoardOnly(),renderFooter()}),renderBoardOnly();else if("sort"===a)boardState.sort=t.dataset.sort,renderBoardOnly();else if("cat"===a)boardState.cat=t.dataset.cat,renderBoardOnly();else if("select"===a){if(e.target.closest("a[href]"))return;const a=t.dataset.slug;if(a===boardState.selected)return;boardState.selected=a,renderBoardOnly(),await enrichSelected(a),"board"===parseRoute().name&&boardState.selected===a&&renderBoardOnly()}else if("more-lb"===a){lbShown+=25;const e=app.dataset.lbSlug;try{const[t,a]=await Promise.all([getBounty(e),getLeaderboard(e)]);app.innerHTML=leaderboard(t,a,lbShown)}catch{await render()}}}),app.addEventListener("keydown",e=>{"Enter"!==e.key&&" "!==e.key||!e.target.matches?.('.row[data-action="select"]')||(e.preventDefault(),e.target.click())}),window.addEventListener("hashchange",render),render();

diff --git a/README.md b/README.md
@@ -60,7 +60,7 @@ Four surfaces, each reachable by a link and by its own URL:
   four small ES modules), no framework, no third-party code. The JS and CSS
   ship minified (terser / clean-css) for first-load size; the unminified
   sources are not kept in the repo. Per the dossier: first load 6 files,
-  38,015 bytes raw, 12,144 bytes gzip-9; whole app 8 files, 42,549 bytes.
+  37,874 bytes raw, 12,153 bytes gzip-9; whole app 7 files, 38,122 bytes.
 - **No blank pages.** Every route shows a loading state, then its data, or a
   clear error with a retry button when the API does not answer. The "time
   left" figures tick every second (countdowns) and every 30 seconds (rows)
@@ -74,8 +74,7 @@ Four surfaces, each reachable by a link and by its own URL:
 
 - `app/` — the frontend: `index.html`, `style.css`, `main.js` (router),
   `api.js` (cached API client), `views.js` (the four pages), `format.js`
-  (formatting and a small safe Markdown renderer), `favicon.svg`,
-  `favicon.ico`.
+  (formatting and a small safe Markdown renderer), `favicon.svg`.
 - `main.ts` — hands the entry in: copies `app/` and `screenshots/` to the
   output directory and writes `dossier.json` with the vendored library.
 - `serve.ts` — the local static server used during development.
